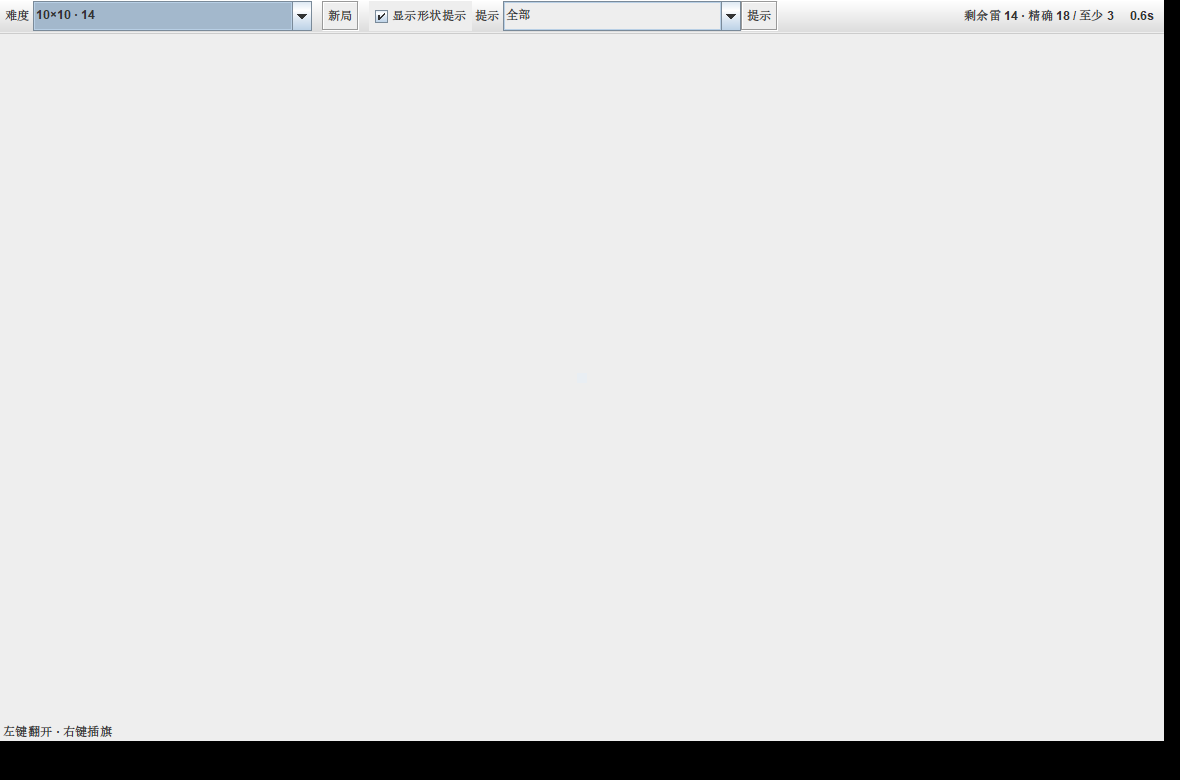
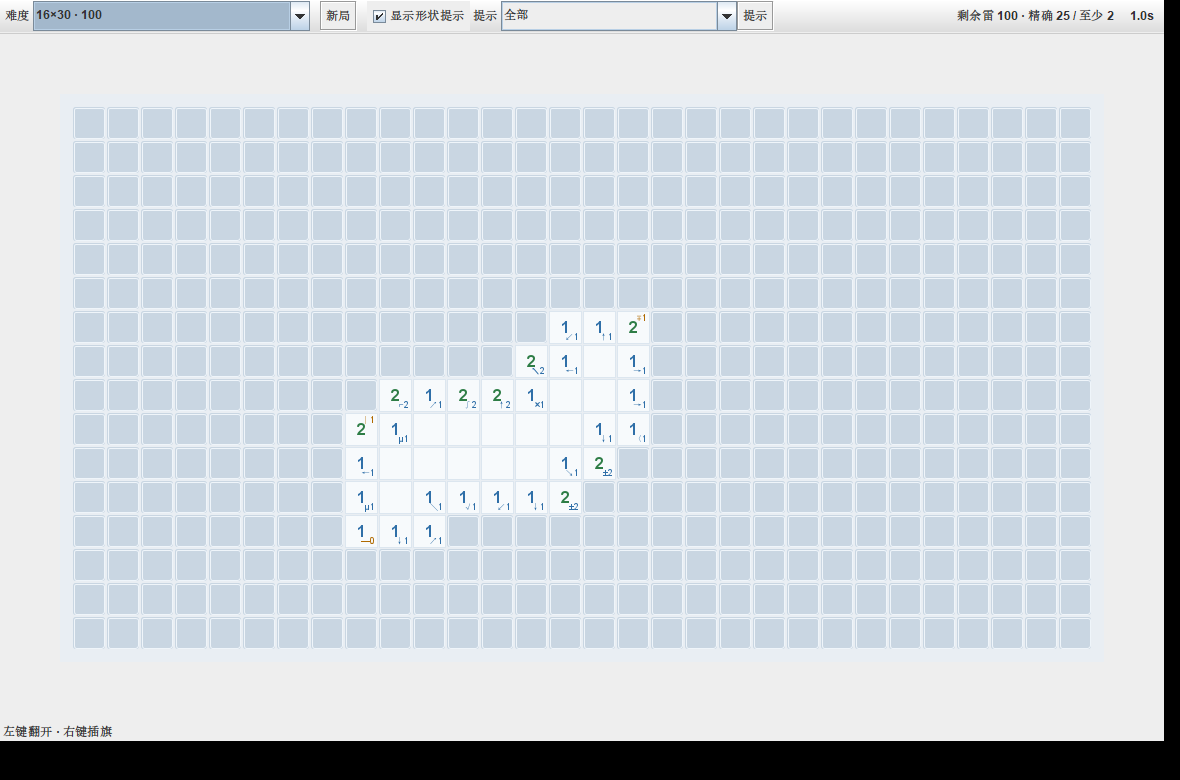
Fix the blank board in screenshots, and a README that drifted
Moving the board into a scroll pane broke relayout: the preferred size was only set when the cell size changed, and on the first pass the computed cell equalled the initial value, so the panel was laid out 0 wide and drew nothing. It now aligns the preferred size every time.

README fixes: the shot example used level 15 for 16x30/100 (it is 14); the level table claimed every level was measured 20 times (the three largest were 6); '2500 and up' included a board that is exactly 2500; and the cross check line said '3 modes' when it means three sizes.

test/check-readme.mjs compares the README level table against LEVELS in the source - order, mine count, density and cell count - and checks that every referenced file exists.

diff --git a/src/Sweeper.java b/src/Sweeper.java
@@ -672,16 +672,15 @@ public class Sweeper extends JFrame {
             int cw = (availW - 2*pad) / Math.max(C, 1);
             // 下限放到 14：50×50 这种 2500 格的盘面靠滚动看，不靠缩到看不清
             int next = Math.max(14, Math.min(34, cw));
-            boolean changed = (next != cell);
             cell = next;
             ox = pad; oy = pad;
             // 字号跟着格子走：极限档的格子只有二十几 px，固定 17 px 的数字会和小字叠在一起
             numFont = new Font("SansSerif", Font.BOLD, Math.max(10, Math.round(cell * 0.46f)));
             smallFont = new Font("SansSerif", Font.PLAIN, Math.max(7, Math.round(cell * 0.26f)));
-            if (changed) {
-                Dimension want = new Dimension(C*cell + 2*pad, R*cell + 2*pad);
-                if (!want.equals(getPreferredSize())) { setPreferredSize(want); revalidate(); }
-            }
+            // 每次都对齐首选尺寸：早先只在 cell 变化时才设，而首次 cell 正好等于初值，
+            // 于是尺寸从未被设置过，面板被布局成 0 宽，画出来是一片空白。
+            Dimension want = new Dimension(C*cell + 2*pad, R*cell + 2*pad);
+            if (!want.equals(getPreferredSize())) { setPreferredSize(want); revalidate(); }
         }
         void chord(int i) {
             if (board == null || board.dead || !board.rev[i]) return;

diff --git a/README.md b/README.md
@@ -28,7 +28,8 @@
 
 ## 难度
 
-24 档，密度从 12% 到 21%，地块从 25 到 3000。每档实测 20 局零失败。
+24 档，密度从 12% 到 21%，地块从 25 到 3000。每档实测 20 局零失败；
+2500 格以上的三档各测 6 局，也是零失败。
 
 | 盘面 | 雷 | 密度 | 地块 | 盘面 | 雷 | 密度 | 地块 |
 | --- | --- | --- | --- | --- | --- | --- | --- |
@@ -45,7 +46,7 @@
 | 16×16 | 51 | 19.9% | 256 | 50×50 | 500 | 20.0% | 2500 |
 | 16×20 | 60 | 18.8% | 320 | 60×50 | 600 | 20.0% | 3000 |
 
-最后三档是 2500 格以上的大图，一屏放不下，棋盘放在滚动区里看；
+最后三档从 2500 格起，一屏放不下，棋盘放在滚动区里看；
 50×50 的发牌要 2.5 秒左右（界面上会先显示「生成中…」）。
 
 密度再往 23% 以上走（例如 20×30 · 140），单次 build 的成功率会掉到一半以下，
@@ -124,7 +125,7 @@ javac -encoding UTF-8 -cp build-java -d build-java test/java/EngineProbe.java
 java -cp build-java EngineProbe 30          # 发牌成功率/耗时、提示自证、中局重算耗时
 java -cp build-java IncrementalProbe        # 增量补算出的提示在推进中是否仍恒成立
 java -cp build-java ExactDump               # 打印一条「精确值不成立」提示的中间量
-java -cp build-java Sweeper shot out.png 2 15  # 截图：档位 2（全部）、难度 15（16×30·100）
+java -cp build-java Sweeper shot out.png 2 14  # 截图：档位 2（全部）、难度 14（16×30·100）
 ```
 
 ## 交叉验证
@@ -138,7 +139,7 @@ node test/cross.mjs --bulk 200 | Out-File -Encoding utf8 build-java/cross-js.jso
 node test/cross-check.mjs   # 比 ok / 雷位 / 开局局面 / 提示序列
 ```
 
-当前基线：3 档 × 200 个 seed = 600 条，四项全等。
+当前基线：3 个尺寸（9×9 / 16×16 / 16×30）× 200 个 seed = 600 条，四项全等。
 
 ## 成绩
 
